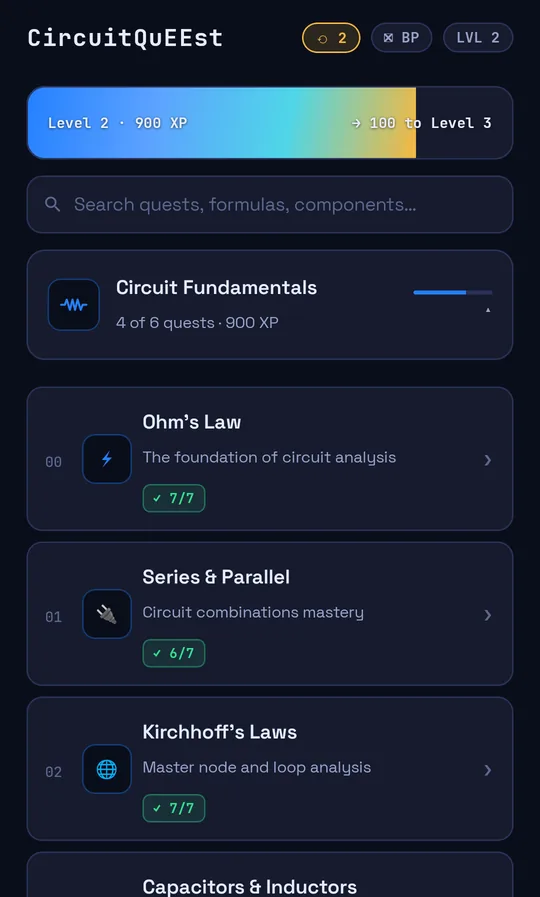
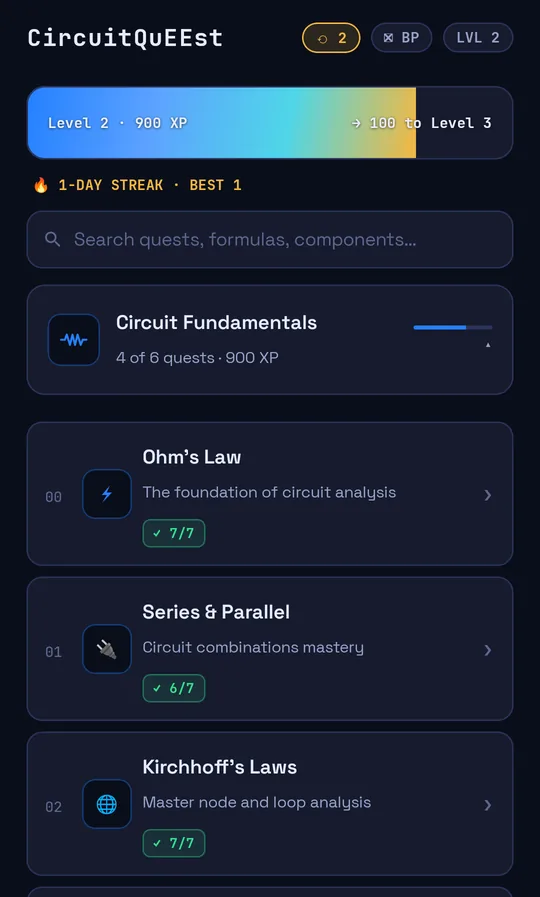
site: v2.6 landing (streaks), docs for study_days
Landing hero and both APK links → v2.6; the XP card now mentions the
daily streak (no bonus claimed); quest-map and blueprint screenshots
regenerated with the streak line. README feature list, Docs
progression text, architecture diagram and API.md cover StudyDay,
StudyDayDao, DB v3 and Streaks.

diff --git a/docs/index.html b/docs/index.html
@@ -90,7 +90,7 @@
     <div class="lp__hero-text">
       <div class="lp__eyebrow">
         <span class="lp__eyebrow-dot"></span>
-        v2.5.1 · Android 8.0+ · Free &amp; open source
+        v2.6 · Android 8.0+ · Free &amp; open source
       </div>
       <h1 class="lp__title">
         Master <span class="lp__title-grad">electrical engineering</span> through quests.
@@ -100,7 +100,7 @@
         learn the math that makes electrons behave — offline, on Android.
       </p>
       <div class="lp__cta-row">
-        <a class="lp__btn lp__btn--primary" href="https://github.com/HighviewOne/CircuitQueest/releases/download/v2.5.1/CircuitQueest-v2.5.1.apk">
+        <a class="lp__btn lp__btn--primary" href="https://github.com/HighviewOne/CircuitQueest/releases/download/v2.6/CircuitQueest-v2.6.apk">
           <svg width="20" height="20" viewBox="0 0 20 20" fill="none" aria-hidden="true">
             <path d="M10 2 V13 M5 8.5 L10 13.5 L15 8.5 M4 17 H16" stroke="currentColor" stroke-width="2" stroke-linecap="round" stroke-linejoin="round" />
           </svg>
@@ -125,7 +125,7 @@
       <div class="lp__phone-glow"></div>
       <div class="lp__phone">
         <img class="lp__phone-shot" src="img/1-quest-map.webp" width="540" height="897"
-             alt="The CircuitQuEEst quest map: XP bar at Level 2, search box, and the Circuit Fundamentals quests with scores like 7/7.">
+             alt="The CircuitQuEEst quest map: XP bar at Level 2, a 1-day study streak, search box, and the Circuit Fundamentals quests with scores like 7/7.">
       </div>
       <div class="lp__readout" aria-hidden="true">
         <div class="lp__readout-row"><span>V</span><span>9.00 V</span></div>
@@ -161,8 +161,8 @@
       </div>
       <div class="lp__feature">
         <div class="lp__feature-glyph lp__feature-glyph--gold">↑</div>
-        <h3>XP you actually earn</h3>
-        <p>+50 XP per lesson, +100 the first time you pass a quiz, and +10 for every point you beat your best score. Retaking an easy quiz earns nothing.</p>
+        <h3>XP and streaks</h3>
+        <p>+50 XP per lesson, +100 the first time you pass a quiz, and +10 for every point you beat your best score. Retaking an easy quiz earns nothing. A daily streak counts the days in a row you study.</p>
       </div>
       <div class="lp__feature">
         <div class="lp__feature-glyph lp__feature-glyph--cyan">⊞</div>
@@ -264,7 +264,7 @@
       <h2>Download CircuitQu<i>EE</i>st for Android.</h2>
       <p>Free. Open source (MIT). No ads, no accounts, no telemetry.</p>
       <div class="lp__cta-row">
-        <a class="lp__btn lp__btn--primary" href="https://github.com/HighviewOne/CircuitQueest/releases/download/v2.5.1/CircuitQueest-v2.5.1.apk">Download APK <span class="lp__btn-meta">v2.5.1 · 2 MB</span></a>
+        <a class="lp__btn lp__btn--primary" href="https://github.com/HighviewOne/CircuitQueest/releases/download/v2.6/CircuitQueest-v2.6.apk">Download APK <span class="lp__btn-meta">v2.6 · 2 MB</span></a>
         <a class="lp__btn lp__btn--ghost" href="https://github.com/HighviewOne/CircuitQueest/releases/latest">Release notes</a>
       </div>
       <ol class="lp__steps">

diff --git a/docs/documentation.html b/docs/documentation.html
@@ -210,16 +210,18 @@
     <h3 id="layers">Layer overview</h3>
     <div class="arch-box"><span class="arch-layer">┌─ UI Layer (Jetpack Compose) ──────────────────────────────────┐</span>
 │  HomeScreen · LessonScreen · QuizScreen · ResultScreen        │
-│  Components: TopicCard · CategoryHeader · XpBar               │
+│  Components: TopicCard · CategoryHeader · XpBar · StreakRow   │
 <span class="arch-layer">├─ ViewModel Layer (@HiltViewModel) ────────────────────────────┤</span>
 │  HomeViewModel · LessonViewModel · QuizViewModel              │
 │  StateFlow → collectAsStateWithLifecycle() → recompose UI     │
 <span class="arch-layer">├─ Repository Layer ────────────────────────────────────────────┤</span>
 │  ProgressRepository (single source of truth)                  │
 │  DAOs: ProgressDao · QuizResultDao · MissedQuestionDao        │
+│        StudyDayDao                                            │
 <span class="arch-layer">├─ Data Layer ──────────────────────────────────────────────────┤</span>
 │  Room DB (AppDatabase, provided by Hilt)                      │
 │  Entities: TopicProgress · QuizResult · MissedQuestion        │
+│            StudyDay (streaks)                                 │
 <span class="arch-layer">├─ Content Layer (compile-time) ────────────────────────────────┤</span>
 │  Kotlin singleton objects — one file per topic                │
 │  TopicCategories — maps topicId → category (UI-only)          │
@@ -279,6 +281,7 @@ sealed class Question {
     </ul>
     <p>
       Wrong answers are queued for <strong>review mode</strong> (no XP; a correct answer clears them).
+      Finishing a lesson, submitting a quiz or answering a question marks the day as studied; the quest map shows your <strong>study streak</strong> (days in a row) and your best (no XP; see <code>util/Streaks</code>).
       A quiz passes at <strong>60%</strong>. Only a passing attempt sets <code>TopicProgress.quizCompleted = true</code>, which unlocks the next topic. Unlock order follows the categories on the quest map, top to bottom; each topic's <code>order</code> equals its position in that sequence. Any topic you've already started stays unlocked. The rules live in <code>QuizScoring</code>; the lock logic is in <code>HomeViewModel</code>.
     </p>
 

diff --git a/docs/API.md b/docs/API.md
@@ -127,7 +127,10 @@ The only class that writes progress. Hilt provides a singleton; inject it, don't
 (tests construct it directly with DAOs from an in-memory database).
 
 ```kotlin
-class ProgressRepository(progressDao: ProgressDao, quizResultDao: QuizResultDao, missedQuestionDao: MissedQuestionDao) {
+class ProgressRepository(
+    progressDao: ProgressDao, quizResultDao: QuizResultDao, missedQuestionDao: MissedQuestionDao,
+    studyDayDao: StudyDayDao, today: () -> Long = Streaks::today
+) {
     fun getAllProgress(): Flow<List<TopicProgress>>
     fun getProgress(topicId: String): Flow<TopicProgress?>
     fun getTotalXp(): Flow<Int>
@@ -141,8 +144,14 @@ class ProgressRepository(progressDao: ProgressDao, quizResultDao: QuizResultDao,
     suspend fun recordAnswer(topicId: String, questionId: String, correct: Boolean) // wrong → queue, right → clear
     suspend fun getMissedQuestions(topicId: String? = null): List<MissedQuestion>  // null = all topics, oldest first
     fun getMissedCount(): Flow<Int>
+
+    // Streaks: lesson completion, every quiz result and every answer also record today's StudyDay
+    fun getStudyDays(): Flow<List<Long>>                           // epoch days, ascending
 }
 ```
+
+`Streaks.compute(days, today)` (`util/Streaks.kt`) turns those days into a `StreakState(current, best,
+studiedToday)`. A streak stays alive through the day after the last study day. Streaks award no XP.
 
 `recordQuizResult` inserts a `QuizResult`, then updates the topic's `TopicProgress`:
 `bestScore = max(best, score)`; `quizCompleted` becomes `true` only on a passing attempt (and never
@@ -159,15 +168,19 @@ Writes are serialized with a `Mutex`, so concurrent updates to the same topic ca
 
 ```kotlin
 @Database(
-    entities = [TopicProgress::class, QuizResult::class, MissedQuestion::class],
-    version = 2,
+    entities = [TopicProgress::class, QuizResult::class, MissedQuestion::class, StudyDay::class],
+    version = 3,
     exportSchema = true,
-    autoMigrations = [AutoMigration(from = 1, to = 2)]   // v2.5: adds missed_questions
+    autoMigrations = [
+        AutoMigration(from = 1, to = 2),                                      // v2.5: missed_questions
+        AutoMigration(from = 2, to = 3, spec = AppDatabase.BackfillStudyDays::class) // v2.6: study_days
+    ]
 )
 abstract class AppDatabase : RoomDatabase() {
     abstract fun progressDao(): ProgressDao
     abstract fun quizResultDao(): QuizResultDao
     abstract fun missedQuestionDao(): MissedQuestionDao
+    abstract fun studyDayDao(): StudyDayDao
     companion object { const val DATABASE_NAME = "circuitqueest_db" }
 }
 ```
@@ -208,6 +221,11 @@ data class MissedQuestion(
     val questionId: String,
     val missedAt: Long = System.currentTimeMillis()
 )
+
+// A local day (LocalDate.toEpochDay) with a finished lesson, a quiz result or an answer. The 2→3
+// migration backfills it from quiz_results and each topic's lastAccessedTimestamp.
+@Entity(tableName = "study_days")
+data class StudyDay(@PrimaryKey val epochDay: Long)
 ```
 
 ### DAOs (`data/db/dao/`)
@@ -233,6 +251,11 @@ data class MissedQuestion(
     suspend fun getAll(): List<MissedQuestion>                         // ORDER BY missedAt
     suspend fun getForTopic(topicId: String): List<MissedQuestion>
     fun count(): Flow<Int>
+}
+
+@Dao interface StudyDayDao {
+    @Insert(onConflict = IGNORE) suspend fun insert(day: StudyDay)
+    fun getDays(): Flow<List<Long>>                                   // ORDER BY epochDay
 }
 ```
 

diff --git a/README.md b/README.md
@@ -25,7 +25,7 @@ CircuitQuEEst is an offline-first Android app that teaches electrical engineerin
 
 | Quest map | Lesson | Quiz feedback | Result | Review mode | Blueprint mode |
 |:---:|:---:|:---:|:---:|:---:|:---:|
-| <img src="docs/img/1-quest-map.webp" width="160" alt="Quest map with XP bar, search and the Circuit Fundamentals quests"> | <img src="docs/img/2-lesson.webp" width="160" alt="Lesson screen"> | <img src="docs/img/3-quiz-feedback.webp" width="160" alt="Quiz question answered correctly, with explanation"> | <img src="docs/img/4-result.webp" width="160" alt="Result screen: 85%, +160 XP, pass"> | <img src="docs/img/5-review.webp" width="160" alt="Review mode replaying a missed numeric question"> | <img src="docs/img/6-blueprint.webp" width="160" alt="Quest map in blueprint mode"> |
+| <img src="docs/img/1-quest-map.webp" width="160" alt="Quest map with XP bar, study streak, search and the Circuit Fundamentals quests"> | <img src="docs/img/2-lesson.webp" width="160" alt="Lesson screen"> | <img src="docs/img/3-quiz-feedback.webp" width="160" alt="Quiz question answered correctly, with explanation"> | <img src="docs/img/4-result.webp" width="160" alt="Result screen: 85%, +160 XP, pass"> | <img src="docs/img/5-review.webp" width="160" alt="Review mode replaying a missed numeric question"> | <img src="docs/img/6-blueprint.webp" width="160" alt="Quest map in blueprint mode"> |
 | Categories · search · XP bar | PCB hero · formulas | Instant explanation | Score ring · up-next | Replays missed questions | Alternate palette |
 
 ## Features
@@ -35,6 +35,7 @@ CircuitQuEEst is an offline-first Android app that teaches electrical engineerin
 - **XP system** — +50 XP per lesson, 10 XP per point above your best quiz score, +100 bonus on your first pass
 - **Dual question types** — multiple choice and numeric input with tolerance-aware grading
 - **Review mode** — every missed question goes into a review queue (⟲ chip on the quest map, "Review mistakes" after a quiz); replay until you get them right
+- **Study streaks** — days in a row with a lesson, quiz or review, plus your best run, shown under the XP bar (no XP bonus)
 - **Blueprint mode** — toggleable alternate palette (deep navy + white-28% borders)
 - **Shared-element transitions** — topic cards morph into the lesson hero
 - **Offline-first** — all content and progress in a local Room database; no account needed
